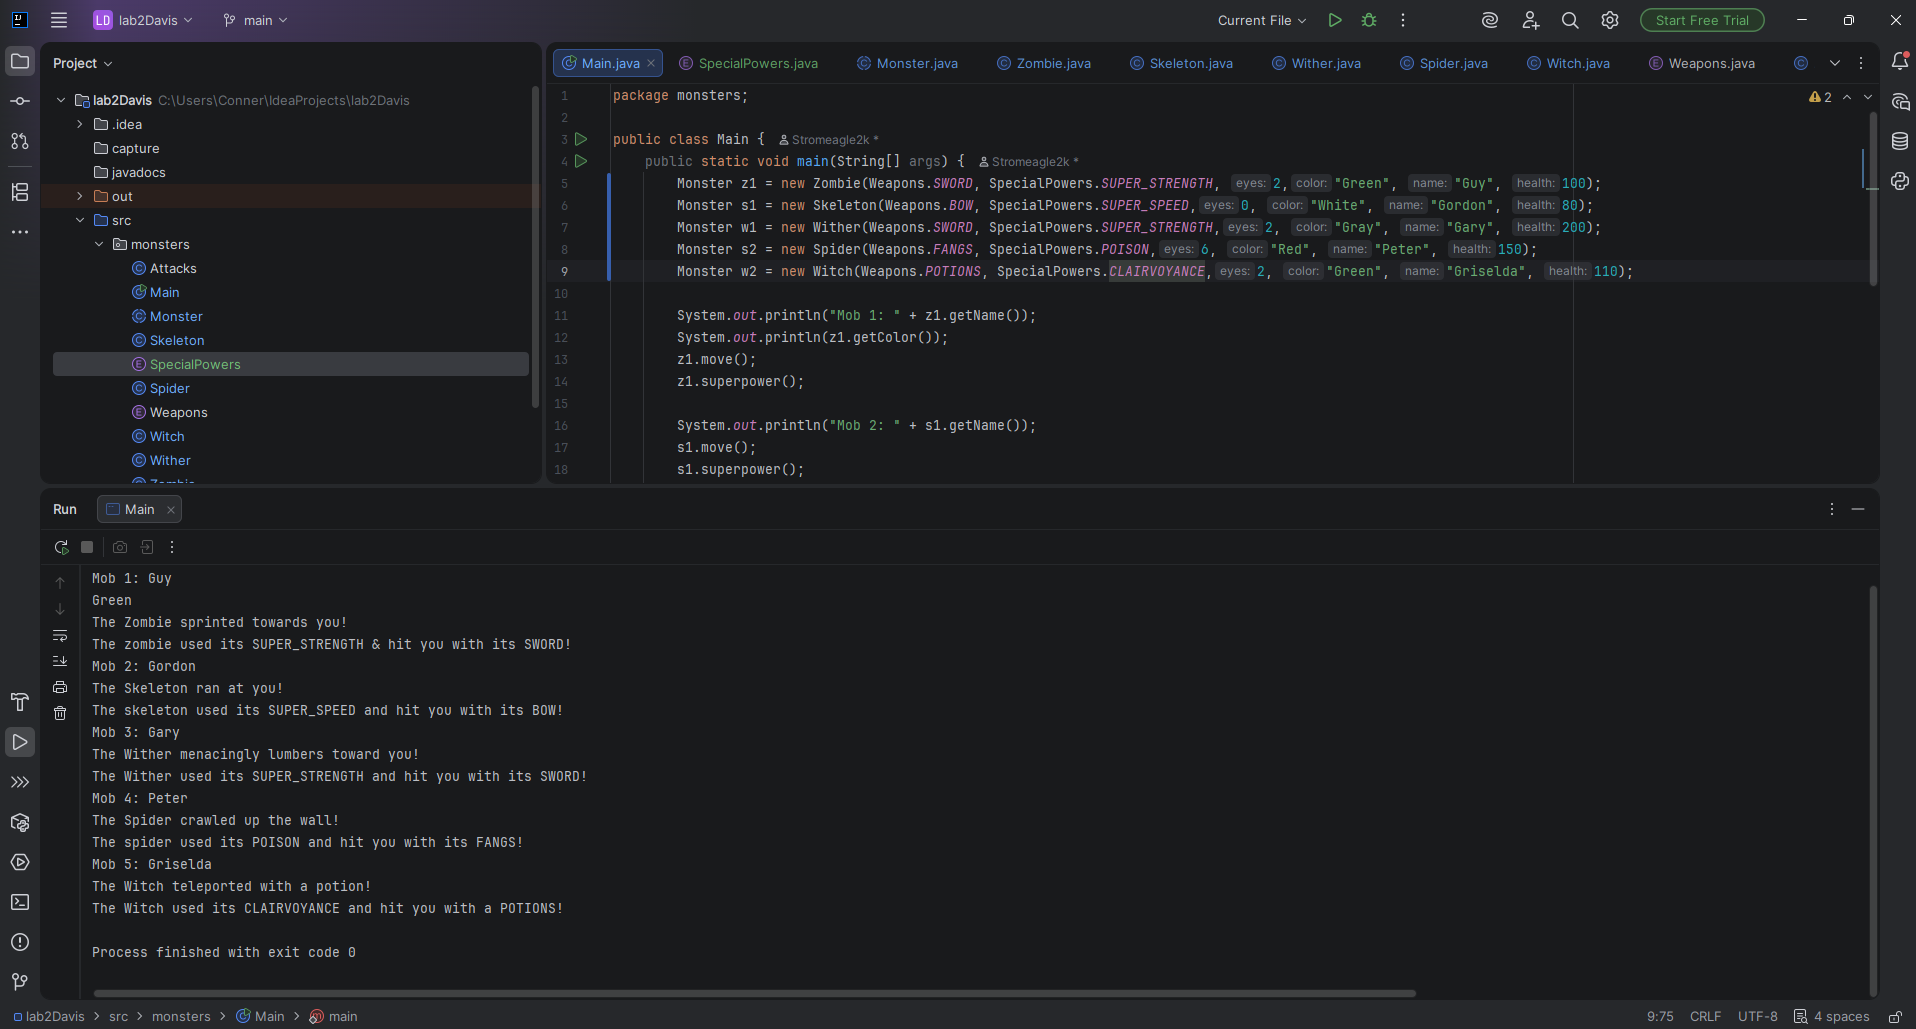
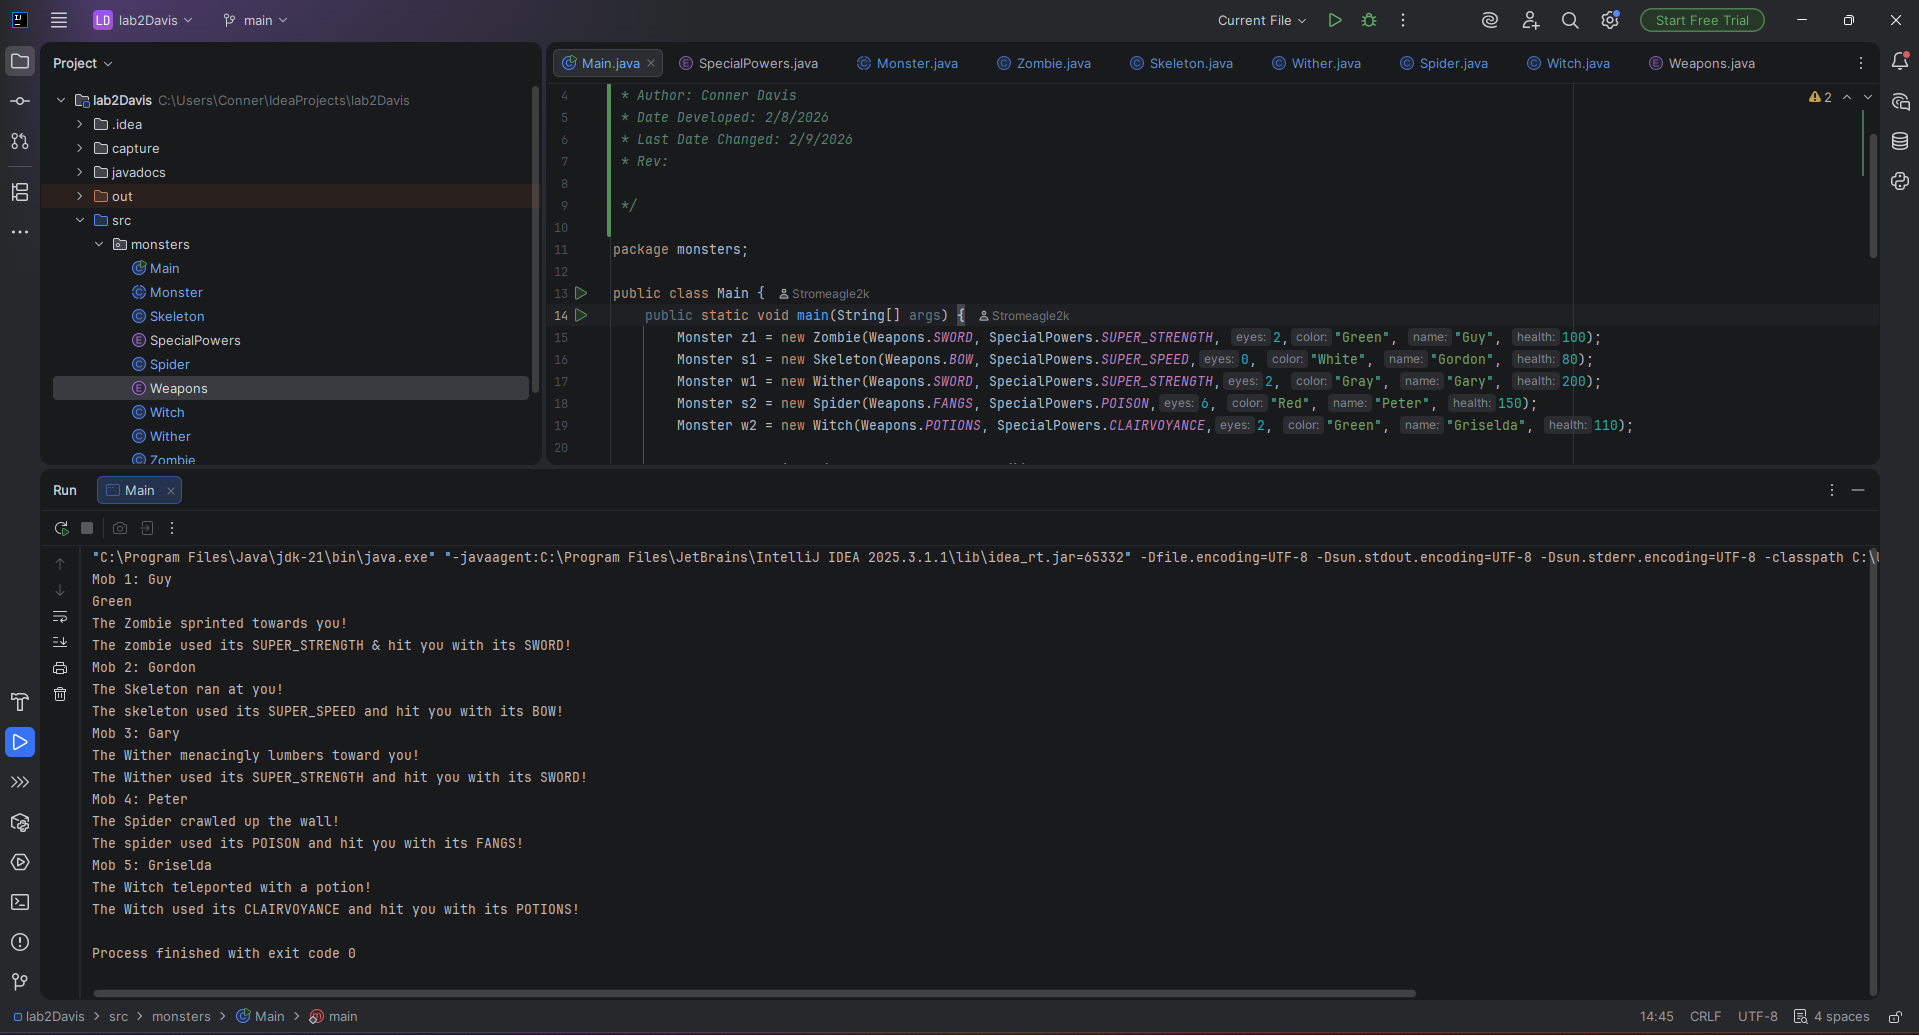
Updated Monster, Main, Zombie, Skeleton, Wither, Spider, Witch, Weapons

diff --git a/src/monsters/Witch.java b/src/monsters/Witch.java
@@ -1,3 +1,13 @@
+/** Project: Solo Lab2 Assignment Abstraction, Inheritance, Polymorphism: Monsters
+ * Purpose Details: Create a Parent Class and Child Classes that inherit methods and characteristics from the parent
+ * Course: IST 242 Section 001
+ * Author: Conner Davis
+ * Date Developed: 2/8/2026
+ * Last Date Changed: 2/9/2026
+ * Rev:
+
+ */
+
 package monsters;
 
 public class Witch extends Monster {
@@ -12,6 +22,6 @@ public class Witch extends Monster {
 
     @Override
     public void superpower() {
-        System.out.println("The Witch used its " + getSpecialPowers() + " and hit you with a " + getWeapons() + "!");
+        System.out.println("The Witch used its " + getSpecialPowers() + " and hit you with its " + getWeapons() + "!");
     }
 }

diff --git a/src/monsters/Skeleton.java b/src/monsters/Skeleton.java
@@ -1,3 +1,13 @@
+/** Project: Solo Lab2 Assignment Abstraction, Inheritance, Polymorphism: Monsters
+ * Purpose Details: Create a Parent Class and Child Classes that inherit methods and characteristics from the parent
+ * Course: IST 242 Section 001
+ * Author: Conner Davis
+ * Date Developed: 2/8/2026
+ * Last Date Changed: 2/9/2026
+ * Rev:
+
+ */
+
 package monsters;
 
 public class Skeleton extends Monster {

diff --git a/src/monsters/Spider.java b/src/monsters/Spider.java
@@ -1,3 +1,13 @@
+/** Project: Solo Lab2 Assignment Abstraction, Inheritance, Polymorphism: Monsters
+ * Purpose Details: Create a Parent Class and Child Classes that inherit methods and characteristics from the parent
+ * Course: IST 242 Section 001
+ * Author: Conner Davis
+ * Date Developed: 2/8/2026
+ * Last Date Changed: 2/9/2026
+ * Rev:
+
+ */
+
 package monsters;
 
 public class Spider extends Monster {

diff --git a/src/monsters/Wither.java b/src/monsters/Wither.java
@@ -1,3 +1,13 @@
+/** Project: Solo Lab2 Assignment Abstraction, Inheritance, Polymorphism: Monsters
+ * Purpose Details: Create a Parent Class and Child Classes that inherit methods and characteristics from the parent
+ * Course: IST 242 Section 001
+ * Author: Conner Davis
+ * Date Developed: 2/8/2026
+ * Last Date Changed: 2/9/2026
+ * Rev:
+
+ */
+
 package monsters;
 
 public class Wither extends Monster {

diff --git a/src/monsters/Zombie.java b/src/monsters/Zombie.java
@@ -1,3 +1,13 @@
+/** Project: Solo Lab2 Assignment Abstraction, Inheritance, Polymorphism: Monsters
+ * Purpose Details: Create a Parent Class and Child Classes that inherit methods and characteristics from the parent
+ * Course: IST 242 Section 001
+ * Author: Conner Davis
+ * Date Developed: 2/8/2026
+ * Last Date Changed: 2/9/2026
+ * Rev:
+
+ */
+
 package monsters;
 
 public class Zombie extends Monster {

diff --git a/src/monsters/Monster.java b/src/monsters/Monster.java
@@ -1,3 +1,13 @@
+/** Project: Solo Lab2 Assignment Abstraction, Inheritance, Polymorphism: Monsters
+ * Purpose Details: Create a Parent Class and Child Classes that inherit methods and characteristics from the parent
+ * Course: IST 242 Section 001
+ * Author: Conner Davis
+ * Date Developed: 2/8/2026
+ * Last Date Changed: 2/9/2026
+ * Rev:
+
+ */
+
 package monsters;
 
 public abstract class Monster {

diff --git a/src/monsters/Main.java b/src/monsters/Main.java
@@ -1,3 +1,13 @@
+/** Project: Solo Lab2 Assignment Abstraction, Inheritance, Polymorphism: Monsters
+ * Purpose Details: Create a Parent Class and Child Classes that inherit methods and characteristics from the parent
+ * Course: IST 242 Section 001
+ * Author: Conner Davis
+ * Date Developed: 2/8/2026
+ * Last Date Changed: 2/9/2026
+ * Rev:
+
+ */
+
 package monsters;
 
 public class Main {
